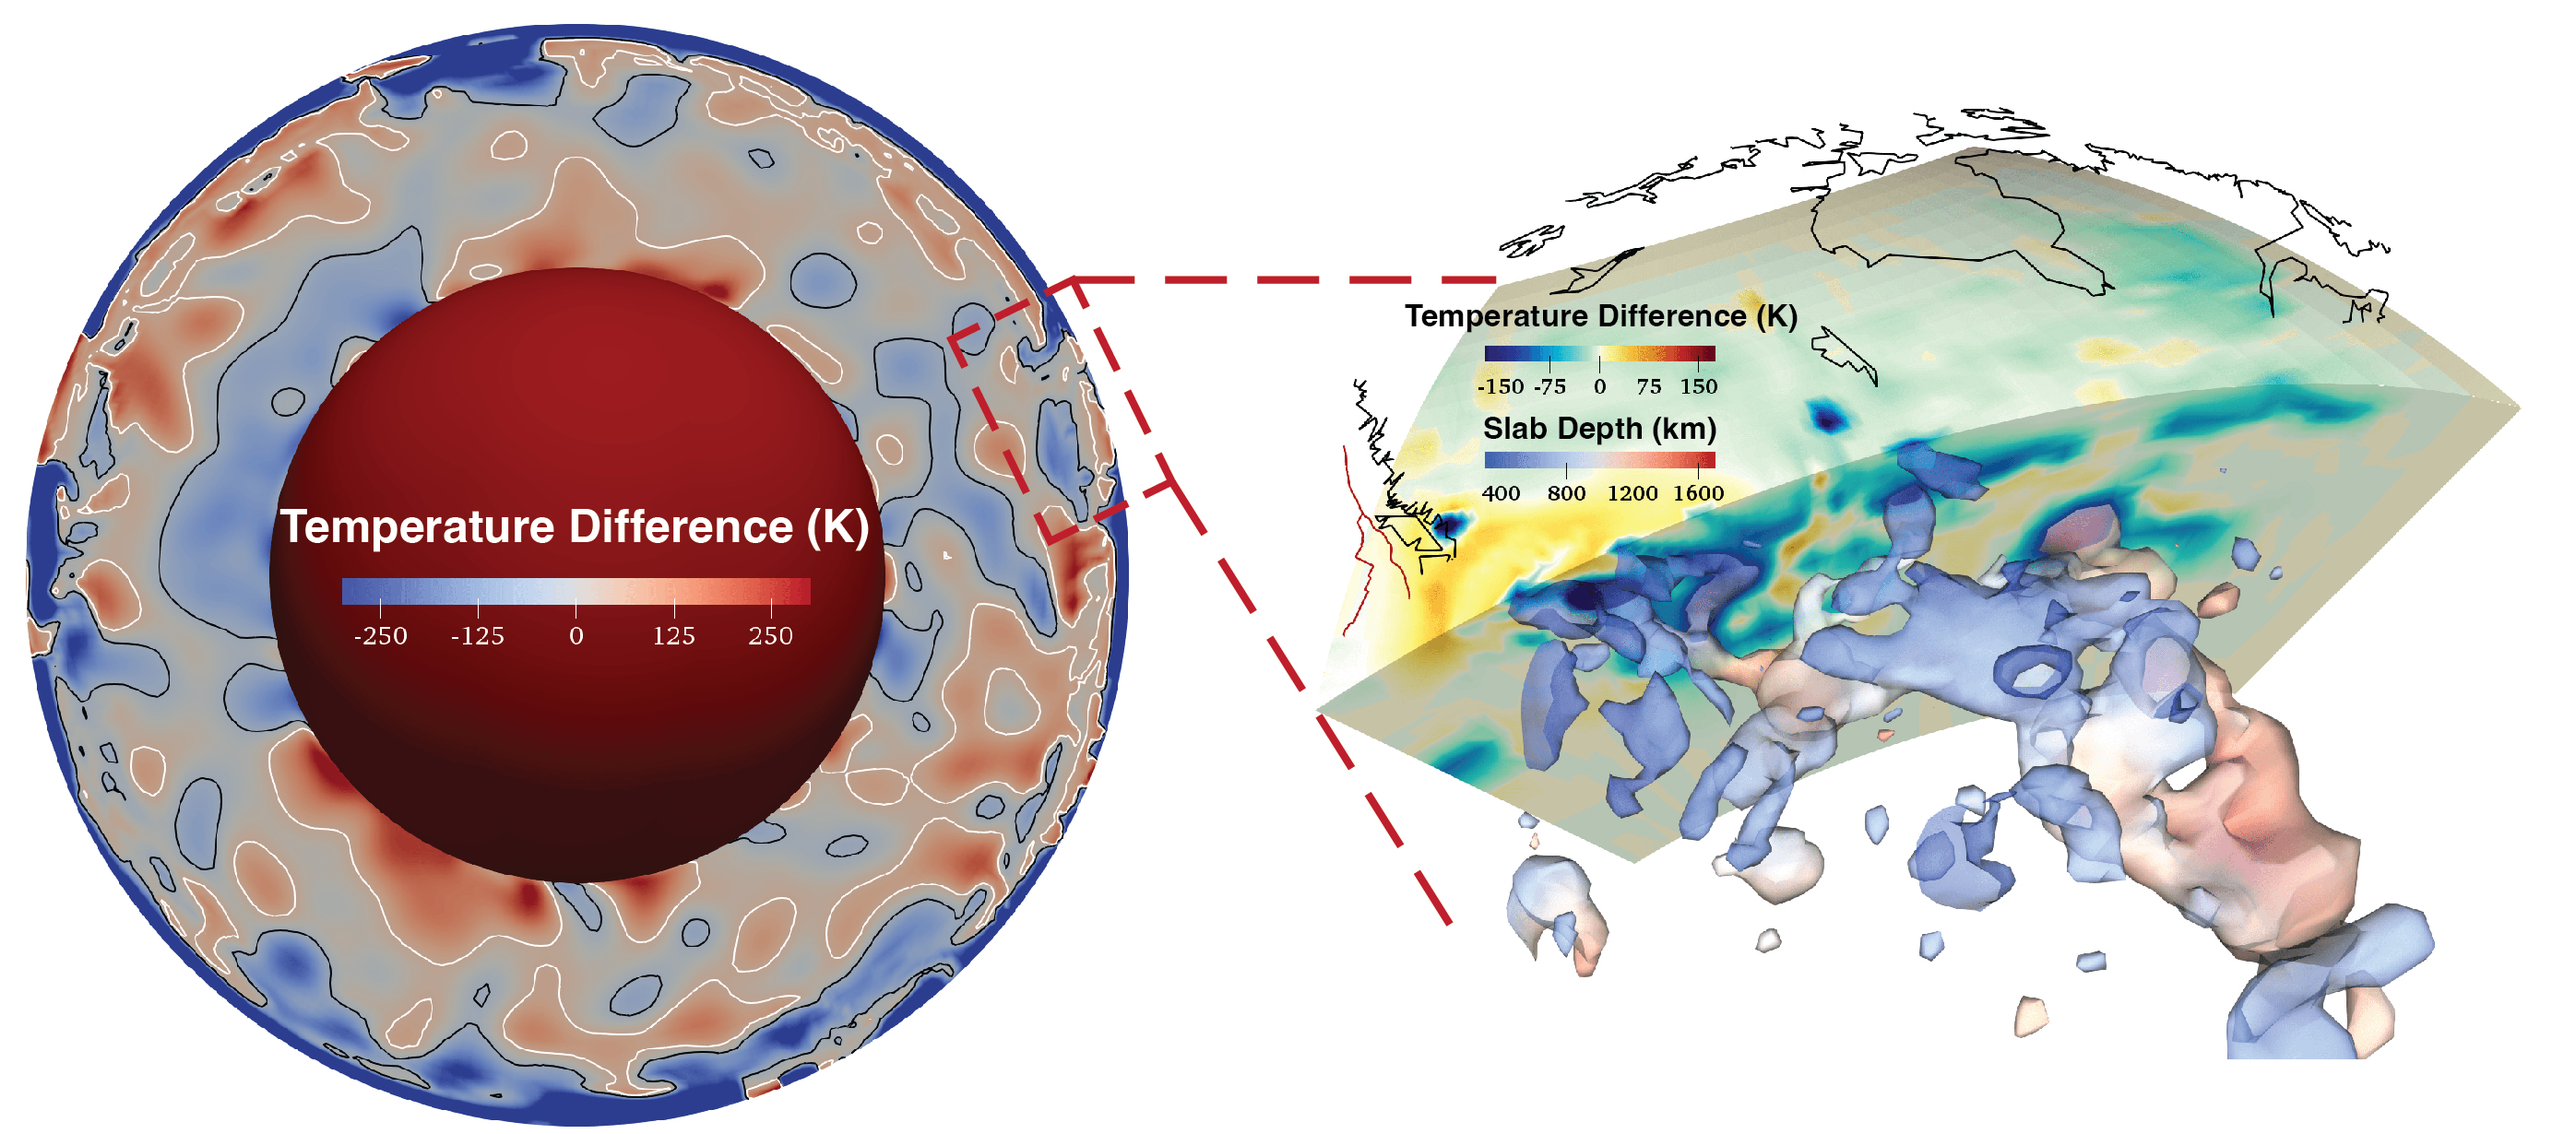
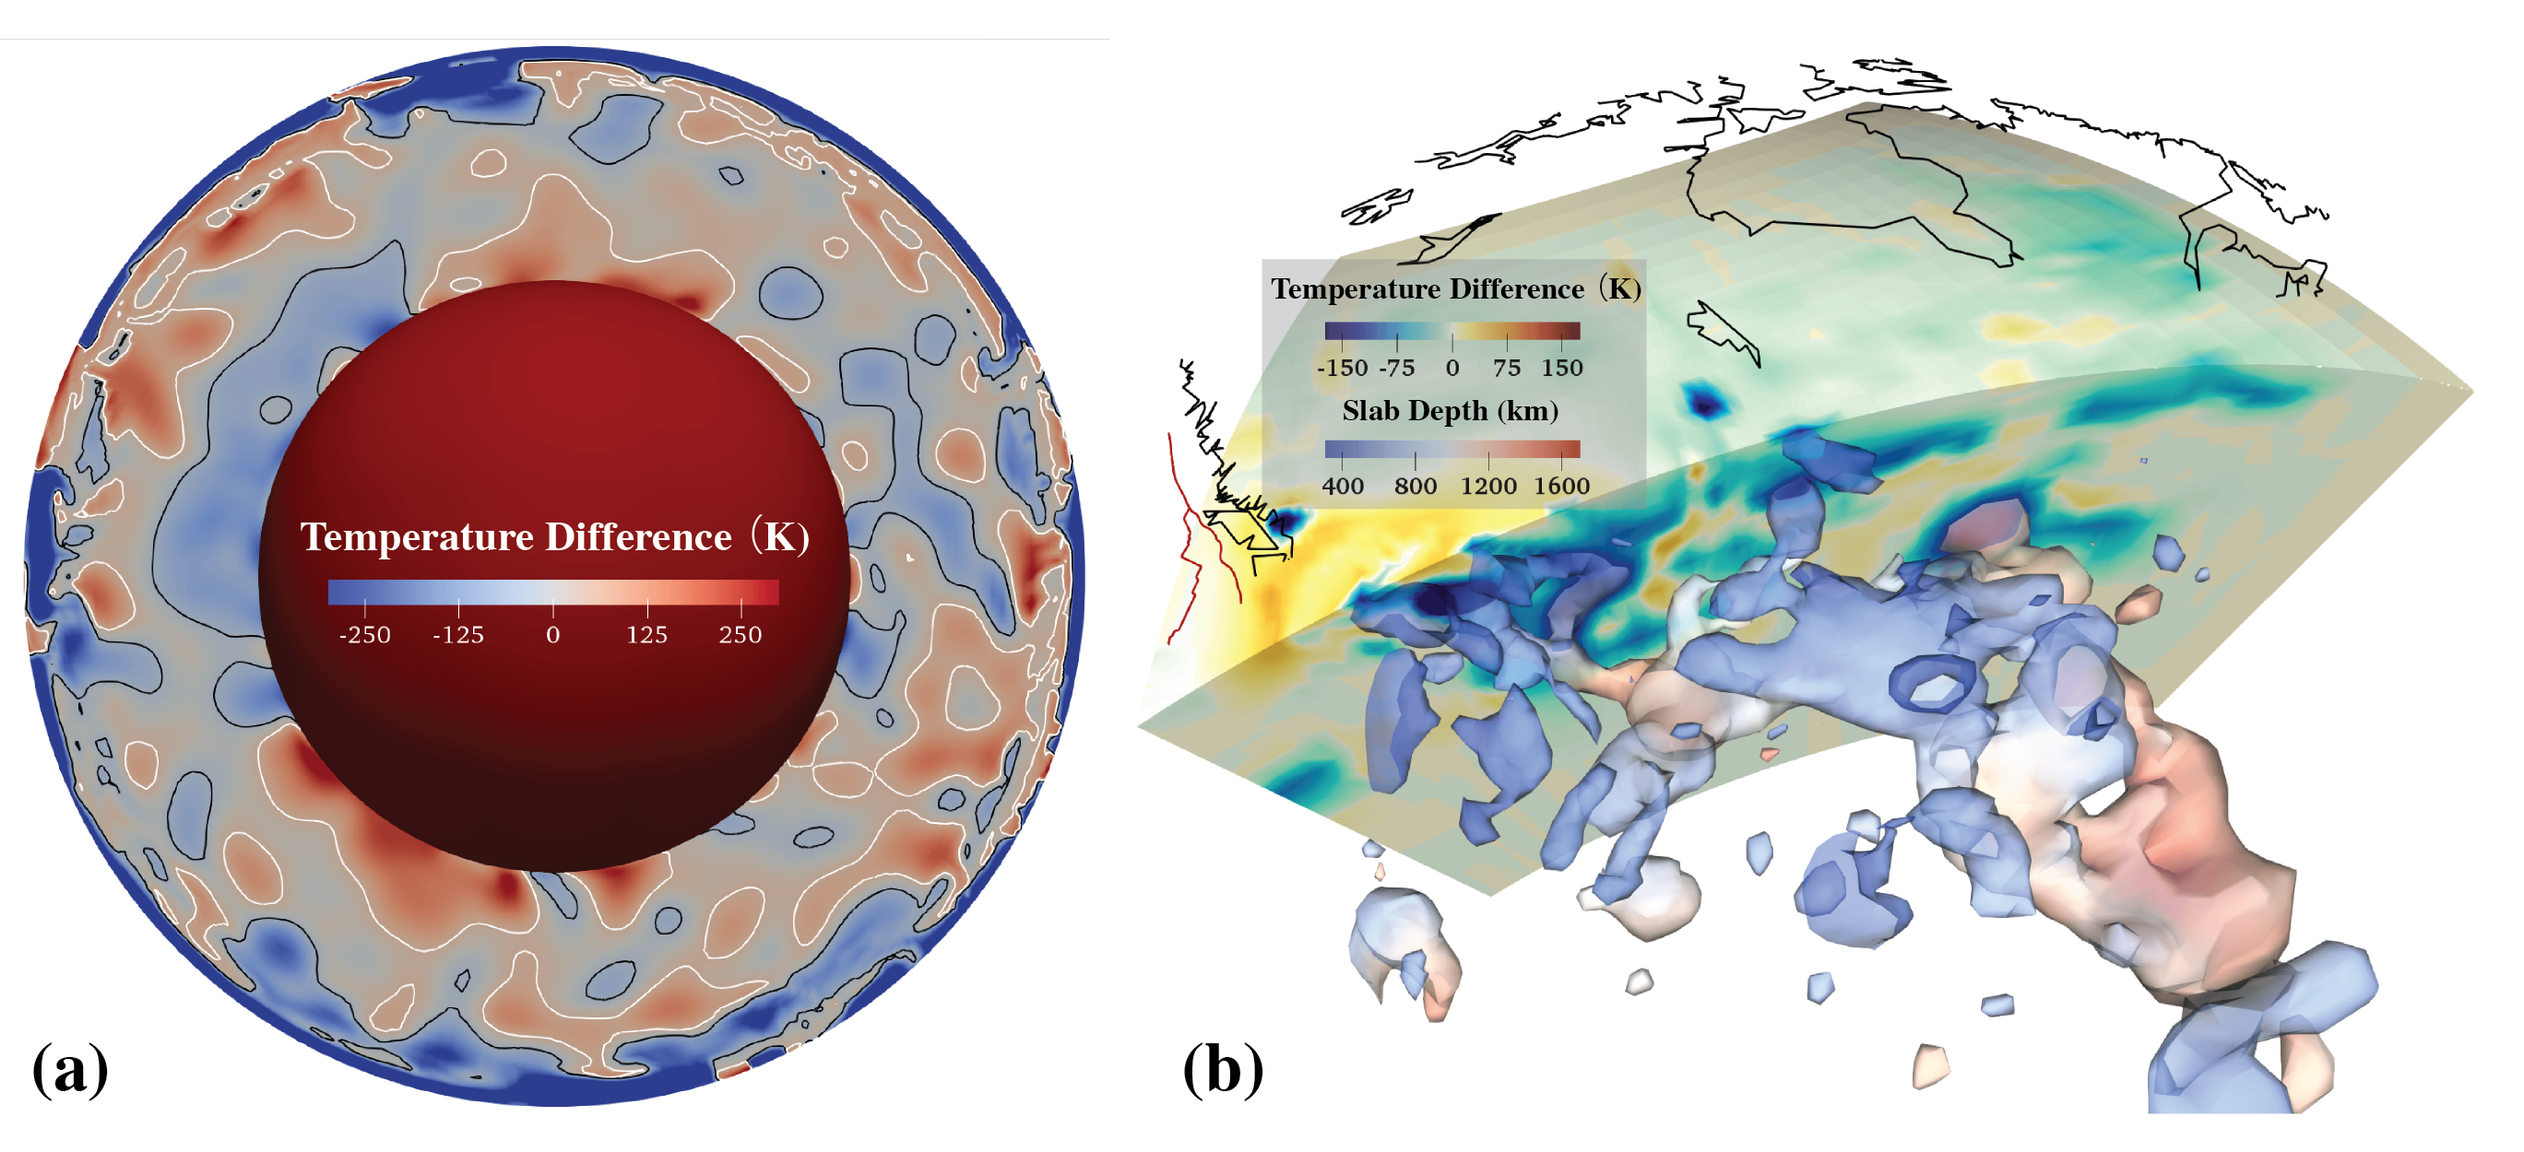
Chnge figure

diff --git a/_pages/about.md b/_pages/about.md
@@ -13,4 +13,4 @@ My essential research tool is analytical and numerical modeling. With data-assim
 
 <br/><img src='/images/Composite_fig.png'>
 
-*Illustration of my PhD research work. Left panel shows a cross-section of global adjoint convection model at present day. Right panel shows the complex mantle structure beneath the North American Plate from a high-resolution, fully coupled lithosphere-mantle model. Starting with the regional North Ameica model, I investigate the driving forces for intraplate earthquakes and volcanism. To further understand the cause of intraplate seismicity and volcanism on a global scale, we are developing a new generation of global model with fully coupled lithosphere-mantle system. The adjoint convection model is our first step towards a well constrained mantle structure. In addition, the global adjoint convection model will give useful insights to the link between intraplate volcanism and slow seismic anomalies in the upper mantle.*
+*Figures showing global and regional high-resolution 3D models. **(a)** An equatorial slice of global adjoint convection model. **(b)** 3D slice of a high-resolution, fully coupled lithosphere-mantle model for the North America Plate.*
